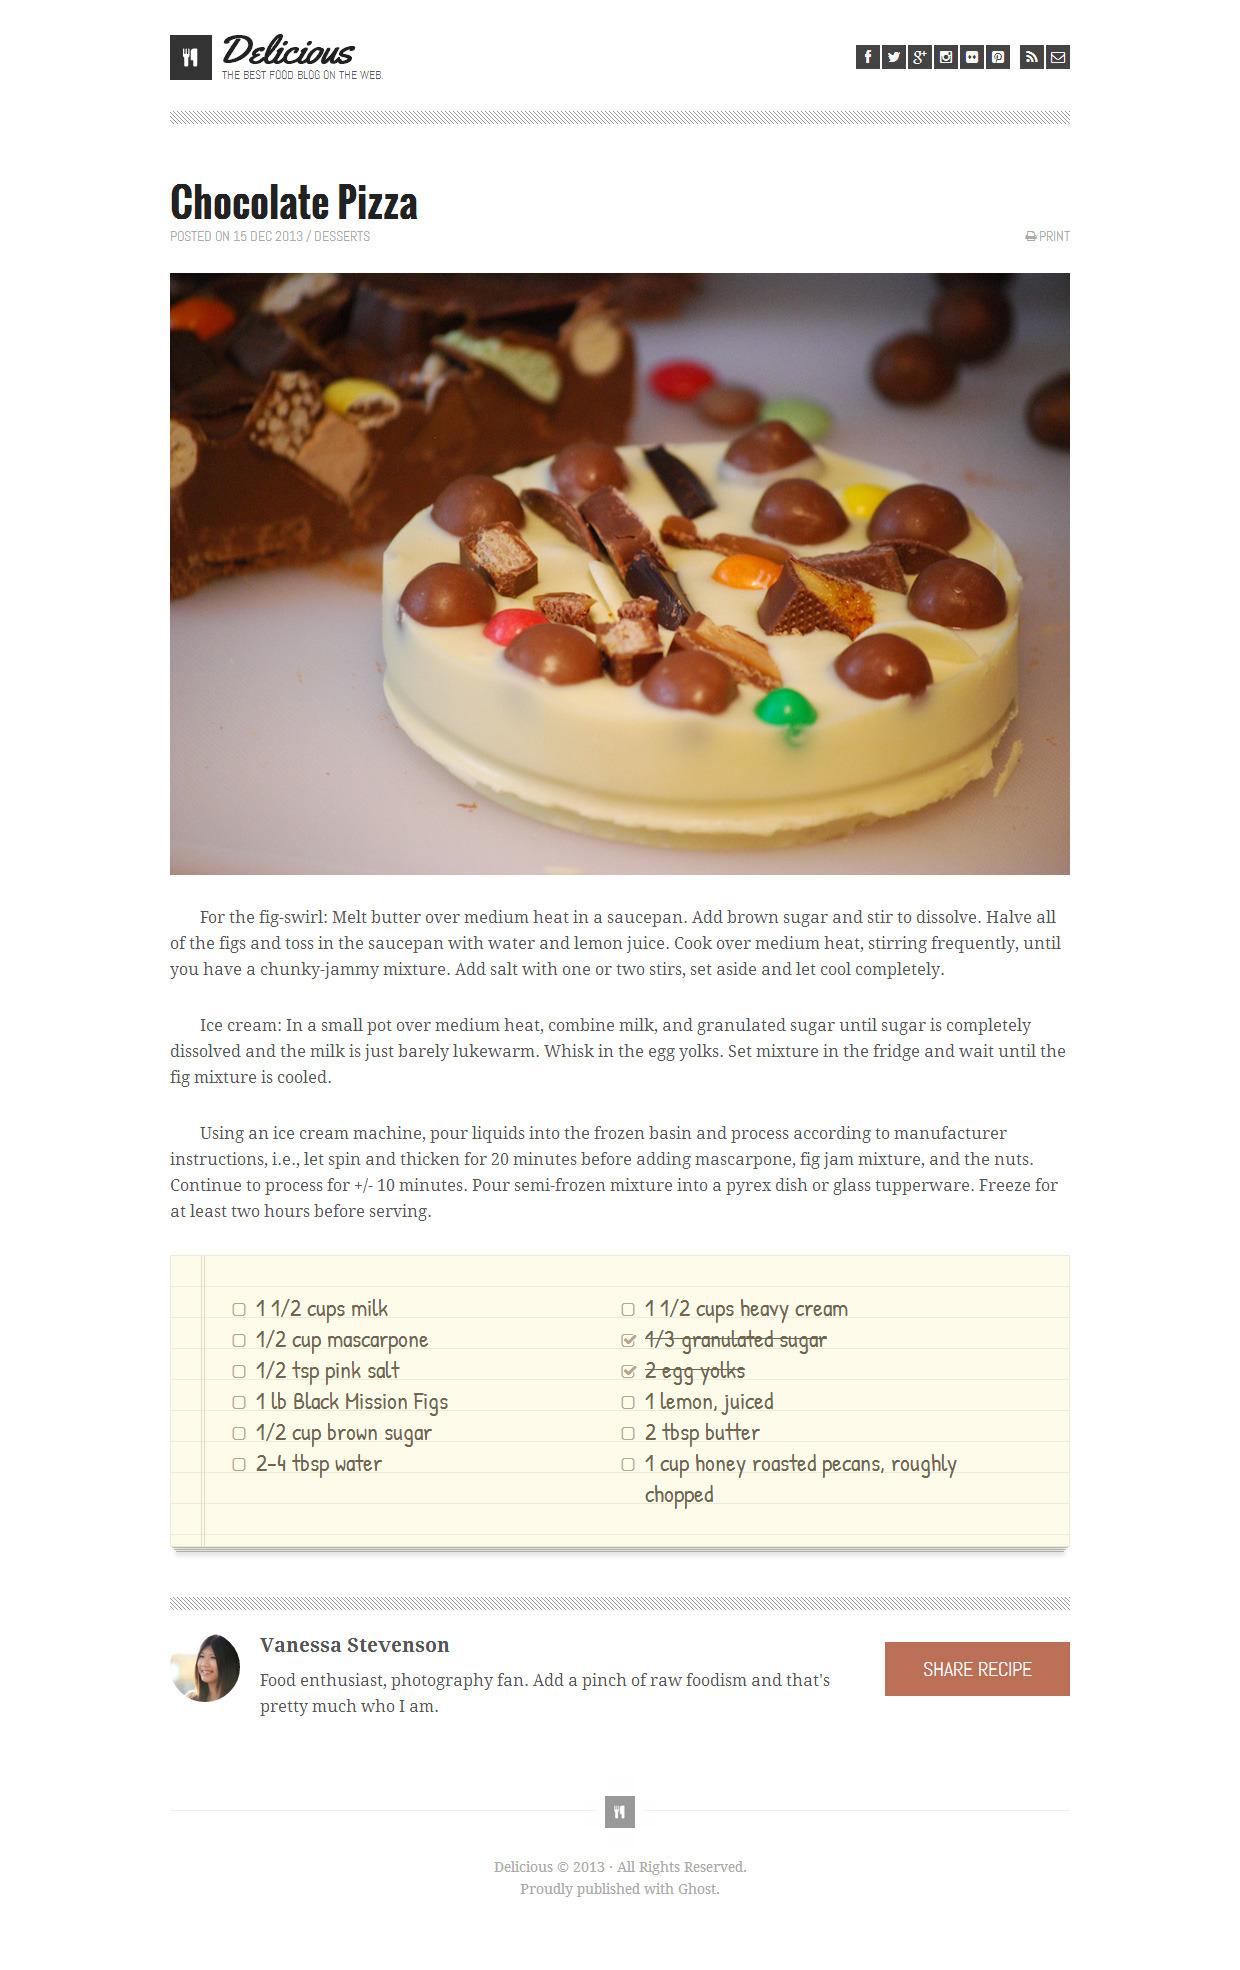
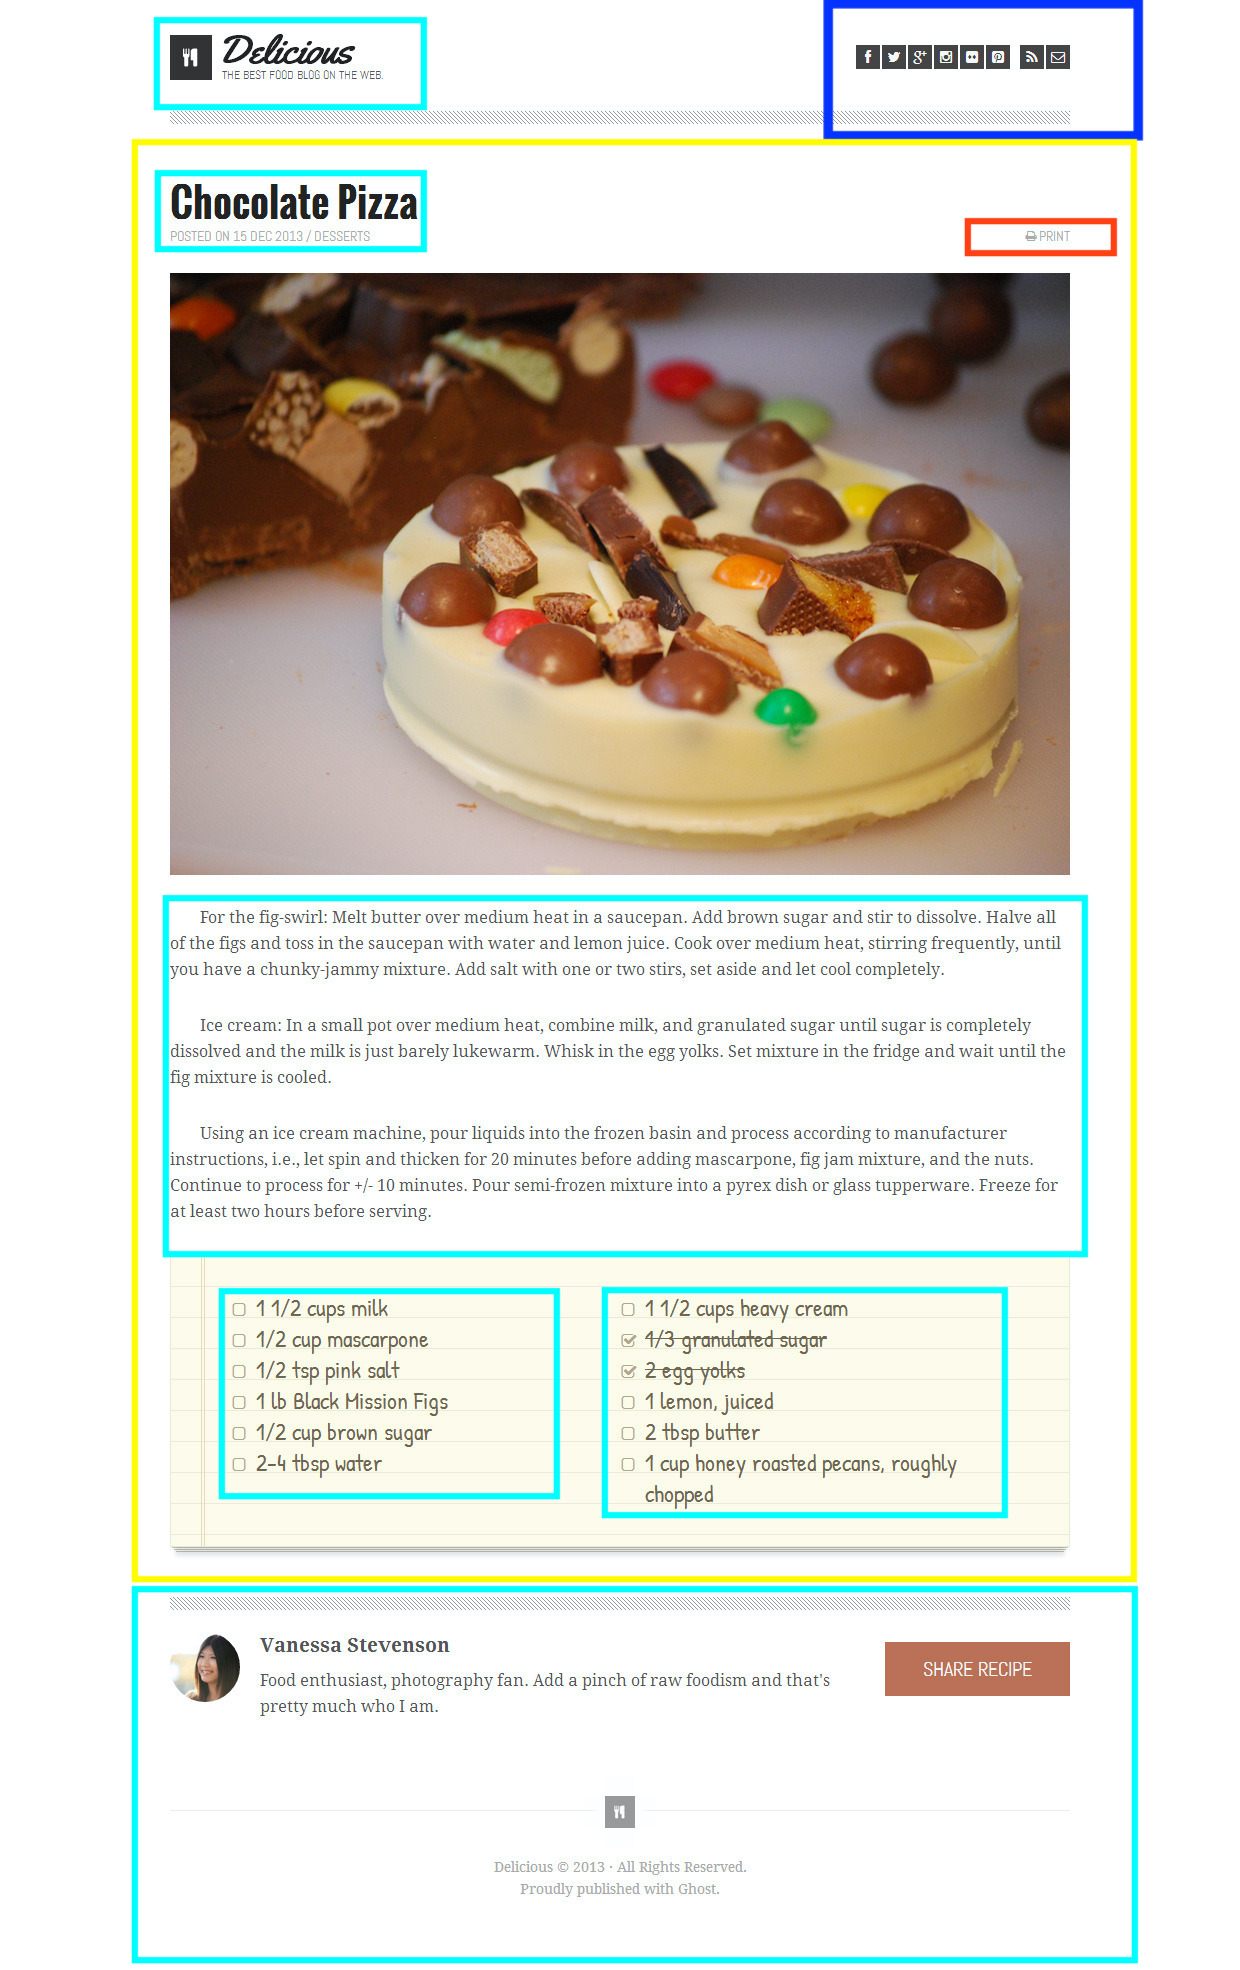
html layout

Changed region(s): [[0.0919, 0.0, 0.95, 1.0]]

diff --git a/index.html b/index.html
@@ -10,6 +10,76 @@
 </head>
 
 <body>
+    <header>
+        <box id="delicious-box">
+            <img src="lab-assets/logo.png"> 
+            <h1>delicious  </h1> 
+            <h2>subheadig</h2>
+        </box>
+        <aside id="top-side-logo">
+            <img src="">
+            <img src="">
+            <img src="">
+            <img src="">
+            <img src="">
+            <img src="">
+            <img src="">
+            <img src="">
+        </aside>   
+        <line>bild the line</line>
+    </header>
+    
+    <main>
+        <box id="choclet-piza"> 
+            <h3> Chocolate Pizza</h3> 
+            <h2>posted on</h2> 
+        </box>
+        <div id="print">
+            <img src="">
+            <h2>print</h2> 
+        </div>
+        <article>
+            <img src="" class="main-immage">
+            <p> text</p>
+        <box>
+            <img src="" class="resipy-bacground">
+            <ul>
+                <li></li>
+                <li></li>
+                <li></li>
+                <li></li>
+                <li></li>
+                <li></li>
+                <li></li>
+                <li></li>
+                <li></li>
+                <li></li>
+                <li></li>
+                <li></li>
+            </ul>
+        </box>
+        </article>
+    
+    </main>
+
+    <footer>
+        <line>bild the line</line>
+        <img src="" id ="vanessa">
+        <section class="author">
+            <h3></h3>
+            <p>bio</p>
+        </section>
+        <button class="share">share</button>
+        <line class="baseline">
+            <img src="" id="byline">
+        </line>
+            <div class="coppy">
+                <h6>rigths</h6>
+                <h6>publis</h6>
+
+         </div>
+
+    </footer>
 
     <script type="module" src="app.js"></script>
 </body>
